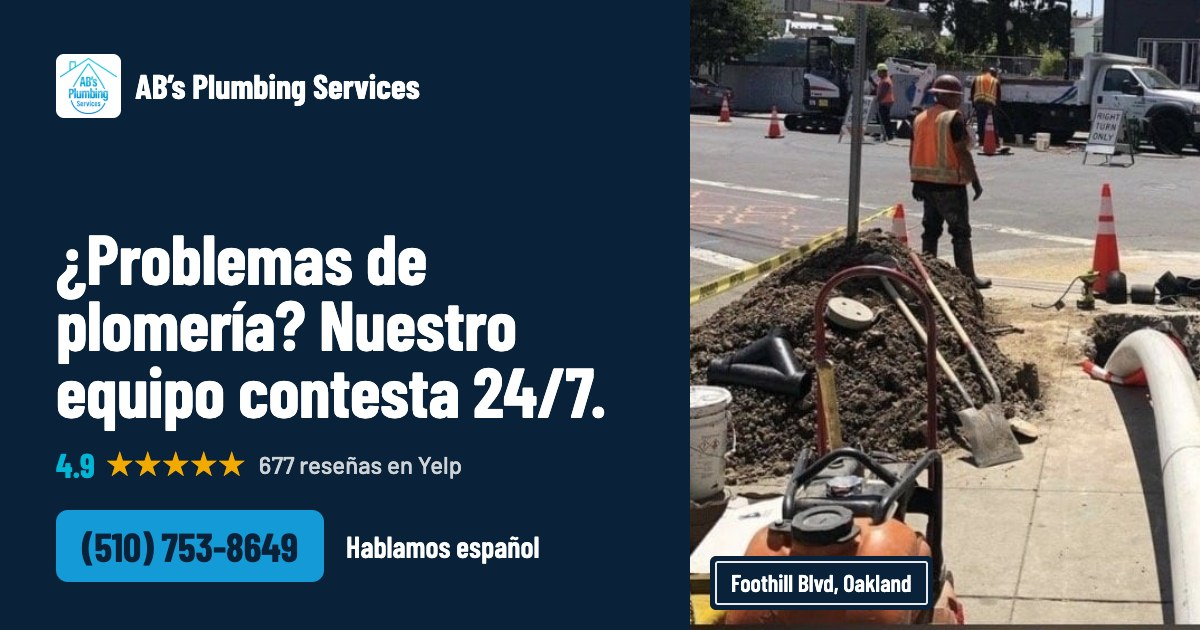
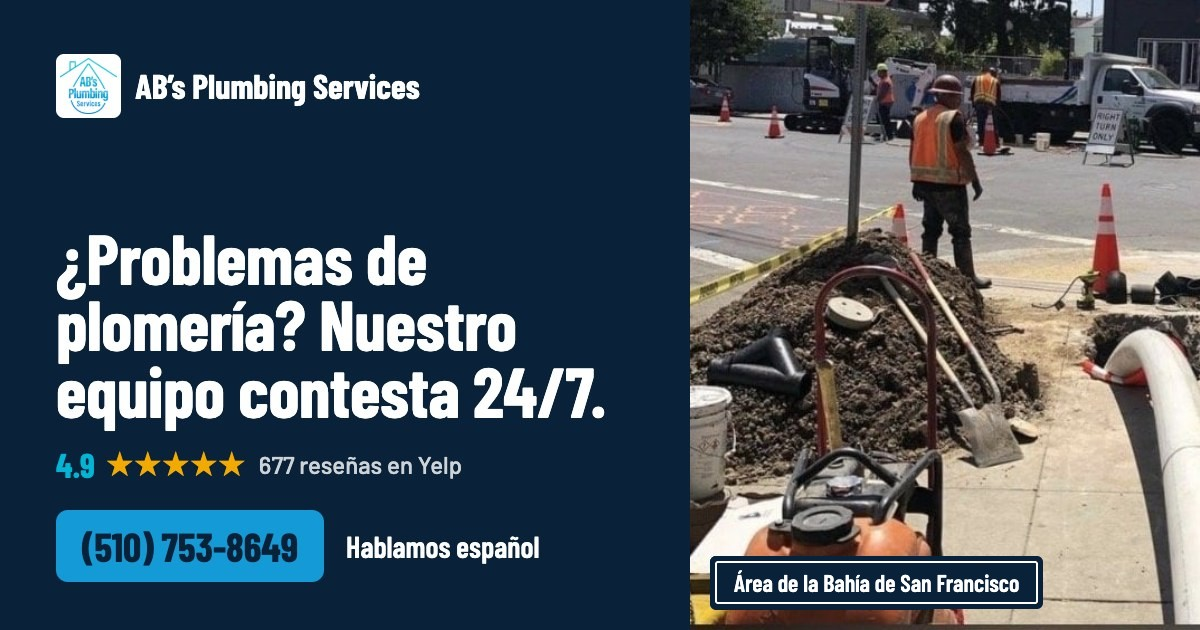
Link previews say San Francisco Bay Area (home title, description, Open Graph images)
Claude-Session: https://claude.ai/code/session_011v2MkKNfKAuU7ZPEyXpDVC

Changed region(s): [[0.5858, 0.8746, 0.8942, 0.9651]]

diff --git a/src/lib/metadata.ts b/src/lib/metadata.ts
@@ -4,13 +4,13 @@ import type { Locale } from '@/content/i18n';
 import { siteUrl } from '@/lib/site';
 
 const titles: Record<Locale, string> = {
-  en: `24/7 Plumber in Oakland & the Bay Area${business.titleSuffix}`,
-  es: `Plomero 24/7 en Oakland y la Bahía${business.titleSuffix}`,
+  en: `24/7 Plumber in the San Francisco Bay Area${business.titleSuffix}`,
+  es: `Plomero 24/7 en la Bahía de San Francisco${business.titleSuffix}`,
 };
 
 const descriptions: Record<Locale, string> = {
-  en: `Family-owned Oakland plumbers, open 24/7 for leaks, clogs, water heaters and sewer lines across the Bay Area. ${business.yelp.rating} stars on Yelp. Call ${business.phone.display}.`,
-  es: `Plomeros de Oakland, empresa familiar abierta 24/7: fugas, drenajes tapados, calentadores de agua y líneas de drenaje en toda la Bahía. Hablamos español. Llame al ${business.phone.display}.`,
+  en: `Family-owned plumbers open 24/7 across the San Francisco Bay Area: leaks, clogs, water heaters and sewer lines. ${business.yelp.rating} stars on Yelp. Call ${business.phone.display}.`,
+  es: `Empresa familiar de plomería abierta 24/7 en toda el Área de la Bahía de San Francisco: fugas, drenajes tapados, calentadores de agua y líneas de drenaje. Hablamos español. Llame al ${business.phone.display}.`,
 };
 
 /** Defaults for every page in one language. Each page sets its own canonical URL (and hreflang when it has a twin). */

diff --git a/src/app/es/page.tsx b/src/app/es/page.tsx
@@ -17,8 +17,8 @@ import { languageAlternates } from '@/lib/i18n-routes';
 export const revalidate = 3600;
 
 export const metadata: Metadata = {
-  title: { absolute: `Plomero 24/7 en Oakland y la Bahía${business.titleSuffix}` },
-  description: `Plomeros de Oakland, abiertos 24/7: fugas, drenajes tapados, calentadores de agua y líneas de drenaje en toda la Bahía. Hablamos español. Llame al ${business.phone.display}.`,
+  title: { absolute: `Plomero 24/7 en la Bahía de San Francisco${business.titleSuffix}` },
+  description: `Empresa familiar de plomería abierta 24/7 en toda el Área de la Bahía de San Francisco: fugas, drenajes tapados, calentadores de agua y líneas de drenaje. Hablamos español. Llame al ${business.phone.display}.`,
   alternates: { canonical: '/es', languages: languageAlternates('/', '/es') },
 };
 

diff --git a/CLAUDE.md b/CLAUDE.md
@@ -4,7 +4,7 @@ Guidance for Claude Code when working in this repository.
 
 ## Project
 
-Website and Google Ads landing pages for AB’s Plumbing Services, a family-owned 24/7 plumbing crew based in Oakland, CA. Say "Oakland", never the neighborhood.
+Website and Google Ads landing pages for AB’s Plumbing Services, a family-owned 24/7 plumbing crew based in Oakland, CA. Say "Oakland", never the neighborhood. Link previews (home title and description, Open Graph images) say "San Francisco Bay Area" instead, as the owner asked on 2026-10-16.
 Visitors are mostly on phones, often mid-emergency, arriving from Google Ads. The site’s job is to get a call, a text or an estimate request fast.
 The brand is the crew (AB’s), not one person.
 
